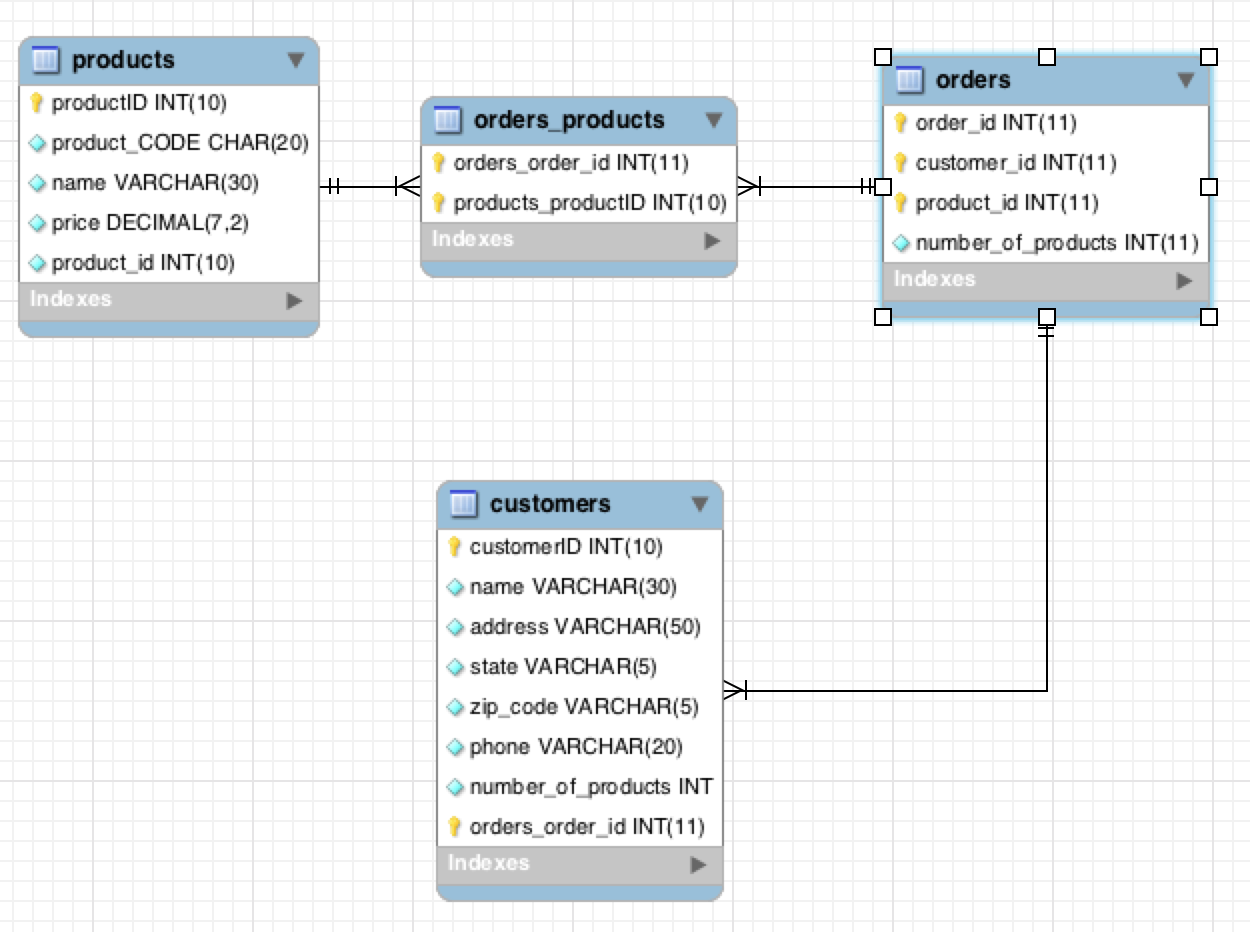
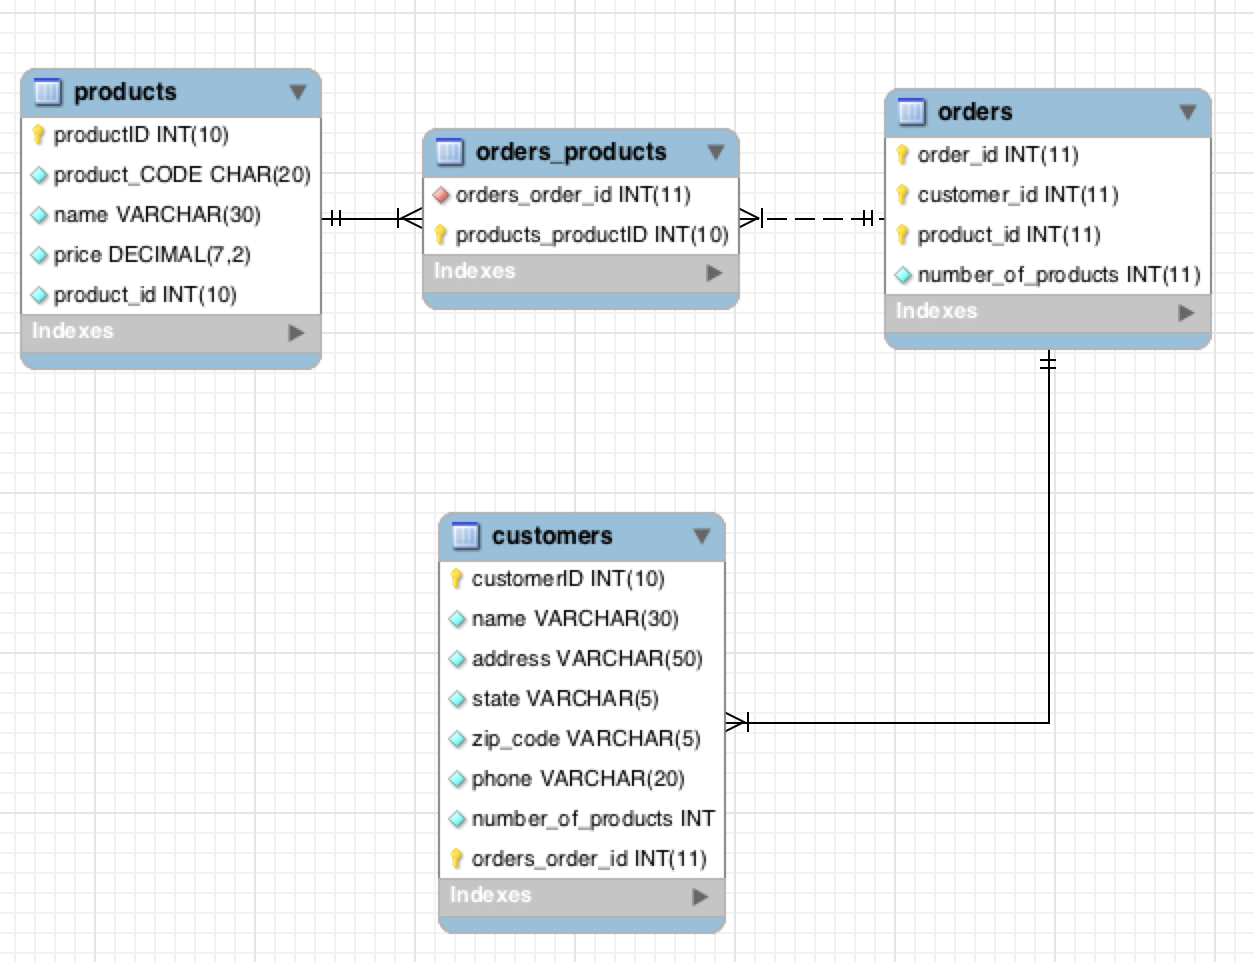
Add image 3 EER

diff --git a/task-1-join-continued.md b/task-1-join-continued.md
@@ -72,9 +72,6 @@ mysql> SELECT * FROM orders;
 
 
 
-
-
-
 - Create a query which will list for each customer the total amount purchased.
 
 ```
@@ -214,7 +211,7 @@ ALTER TABLE orders_products ADD FOREIGN KEY (product_id) REFERENCES products (pr
 CREATE  TABLE `store`.`orders_products` (
   `order_id` INT NOT NULL ,
   `product_id` INT NOT NULL ,
-  PRIMARY KEY (`order_id`, `product_id`) );
+  PRIMARY KEY (`product_id`) );
 ```
 
 
@@ -231,8 +228,8 @@ mysql> SELECT * FROM orders_products;
 | order_id | product_id |
 +----------+------------+
 |      101 |          1 |
-|      102 |          2 |
-|      103 |          3 |
+|      100 |          2 |
+|      100 |          3 |
 |      104 |          4 |
 +----------+------------+
 4 rows in set (0.00 sec)
